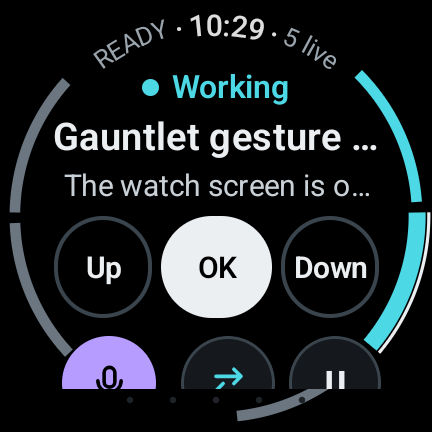
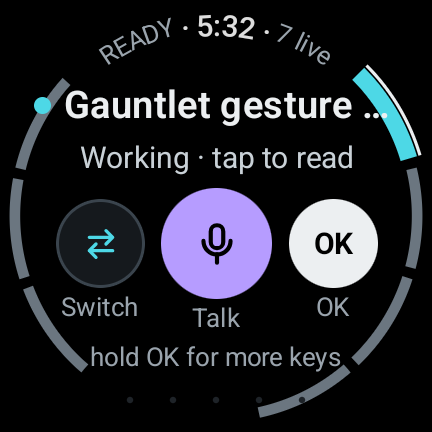
0.2.11: guide shows the new watch layout (Switch, Talk, OK, hold OK) and Codex support

diff --git a/guide/index.html b/guide/index.html
@@ -127,7 +127,7 @@
         <a class="btn" href="https://github.com/NawafSheikh/gauntlet-plugin"><i class="ph ph-github-logo"></i>GitHub</a>
       </div>
     </div>
-    <div class="watch"><img src="img/watch-console.png" alt="The Gauntlet watch console showing a working Claude Code session with Up, OK, Down, Talk, Switch and Pause buttons" width="432" height="432"></div>
+    <div class="watch"><img src="img/watch-console.png" alt="The Gauntlet watch console showing a working session with Switch, Talk and OK buttons" width="432" height="432"></div>
   </header>
 </div>
 
@@ -162,24 +162,24 @@
   <div class="watch" aria-label="Watch console with numbered callouts">
     <img src="img/watch-console.png" alt="Watch console" width="432" height="432">
     <span class="pin" style="left:50%;top:3%">1</span>
-    <span class="pin" style="left:7%;top:36%">2</span>
-    <span class="pin" style="left:50%;top:73%">3</span>
-    <span class="pin" style="left:25%;top:83%">4</span>
-    <span class="pin" style="left:50%;top:83%">5</span>
-    <span class="pin" style="left:76%;top:83%">6</span>
-    <span class="pin" style="left:94%;top:52%">7</span>
+    <span class="pin" style="left:6%;top:23%">2</span>
+    <span class="pin" style="left:10%;top:37%">3</span>
+    <span class="pin" style="left:14%;top:49%">4</span>
+    <span class="pin" style="left:38%;top:44%">5</span>
+    <span class="pin" style="left:88%;top:49%">6</span>
+    <span class="pin" style="left:95%;top:30%">7</span>
   </div>
   <div>
     <h2>What every part of the watch does</h2>
     <p>The console is the home screen of the watch app. Everything works by touch and the bezel; nothing fires from an accidental gesture.</p>
     <div class="legend">
-      <div><b>1</b><div><h3>Status</h3><p>Connected or not, the time, and how many sessions are live.</p></div></div>
-      <div><b>2</b><div><h3>The session</h3><p>Its state and name. Tap the last line to read the conversation.</p></div></div>
-      <div><b>3</b><div><h3>Up, OK, Down</h3><p>Press keys in that session only, for menus and prompts.</p></div></div>
-      <div><b>4</b><div><h3>Talk</h3><p>Speak a prompt. It is typed into the session and sent.</p></div></div>
-      <div><b>5</b><div><h3>Switch</h3><p>Change session, skill, permission mode or model. Turn the bezel, tap to apply.</p></div></div>
-      <div><b>6</b><div><h3>Pause</h3><p>Ignore every gesture until you resume.</p></div></div>
-      <div><b>7</b><div><h3>The ring</h3><p>One segment per session. Turn the bezel to move between them.</p></div></div>
+      <div><b>1</b><div><h3>Status</h3><p>Ready or paused, the time, and how many sessions are live.</p></div></div>
+      <div><b>2</b><div><h3>The session</h3><p>Its name; the dot is its state (working, needs you, idle).</p></div></div>
+      <div><b>3</b><div><h3>Its last line</h3><p>Tap it to read the conversation.</p></div></div>
+      <div><b>4</b><div><h3>Switch</h3><p>Change session, permission mode, model or skill. Turn the bezel or tap the arrows, then Done.</p></div></div>
+      <div><b>5</b><div><h3>Talk</h3><p>Speak a prompt. It is typed into the session and sent.</p></div></div>
+      <div><b>6</b><div><h3>OK</h3><p>Presses Enter in that session for a prompt that popped up. Hold it for Up, Down, Esc and Pause.</p></div></div>
+      <div><b>7</b><div><h3>The ring</h3><p>One segment per session. Turn the bezel to move between them; a tap near the edge never does.</p></div></div>
     </div>
   </div>
 </div></section>
@@ -200,6 +200,12 @@
     <div class="tile paper"><img src="img/wallpaper-working.png" alt="Live wallpaper: a calm night sea with the character typing on a tiny laptop" loading="lazy" width="1080" height="2340"><div class="copy"><h3>Working</h3><p>The live wallpaper follows your sessions.</p></div></div>
     <div class="tile paper"><img src="img/wallpaper-needs-you.png" alt="Live wallpaper: the lighthouse beam lands on the character, who waves" loading="lazy" width="1080" height="2340"><div class="copy"><h3>Needs you</h3><p>The lighthouse finds the character when a session waits.</p></div></div>
   </div>
+</div></section>
+
+<section id="codex"><div class="wrap">
+  <h2>Claude Code and Codex, side by side</h2>
+  <p>Codex sessions show up next to Claude Code ones, named the way Codex names them. Codex gets its own character: a teal pod that takes over the watch face when Codex is the one working, and shares the stage with Clawd when both are busy. Talk, switch, OK and the transcript work the same for both. In Codex, run <code>/hooks</code> once and trust the Gauntlet hooks.</p>
+  <img src="img/codex-cast.png" alt="Pixel characters: Clawd typing, then the teal Codex pod typing, needing you and celebrating" loading="lazy" width="1160" height="240" style="width:100%;height:auto;image-rendering:pixelated;border-radius:16px">
 </div></section>
 
 <section id="commands"><div class="wrap">
